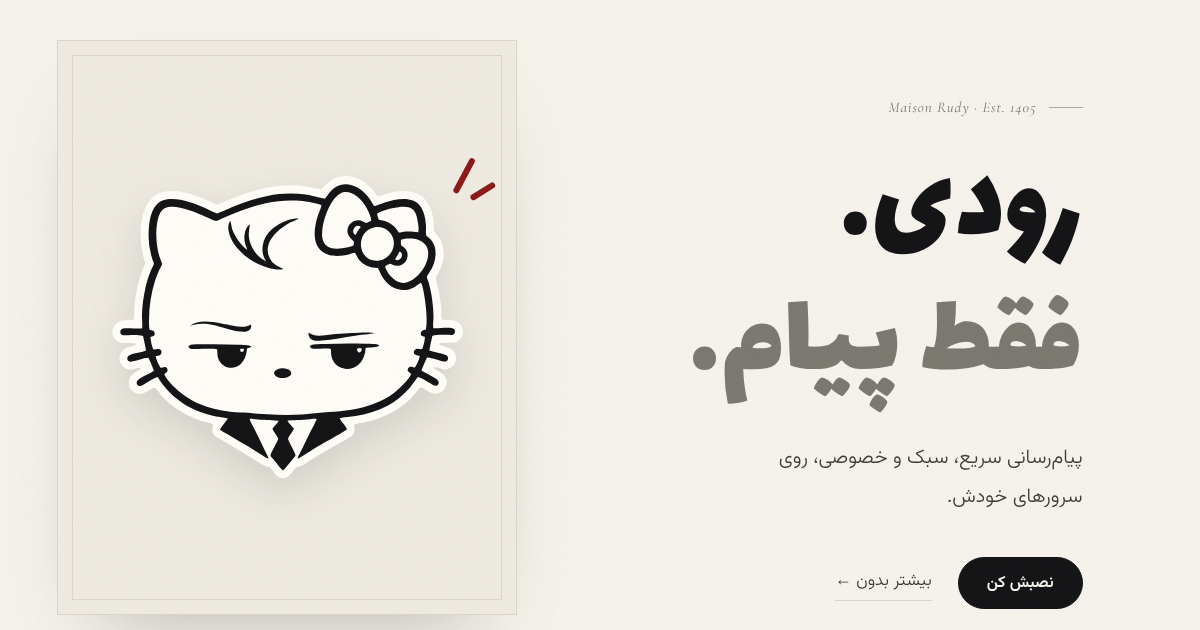
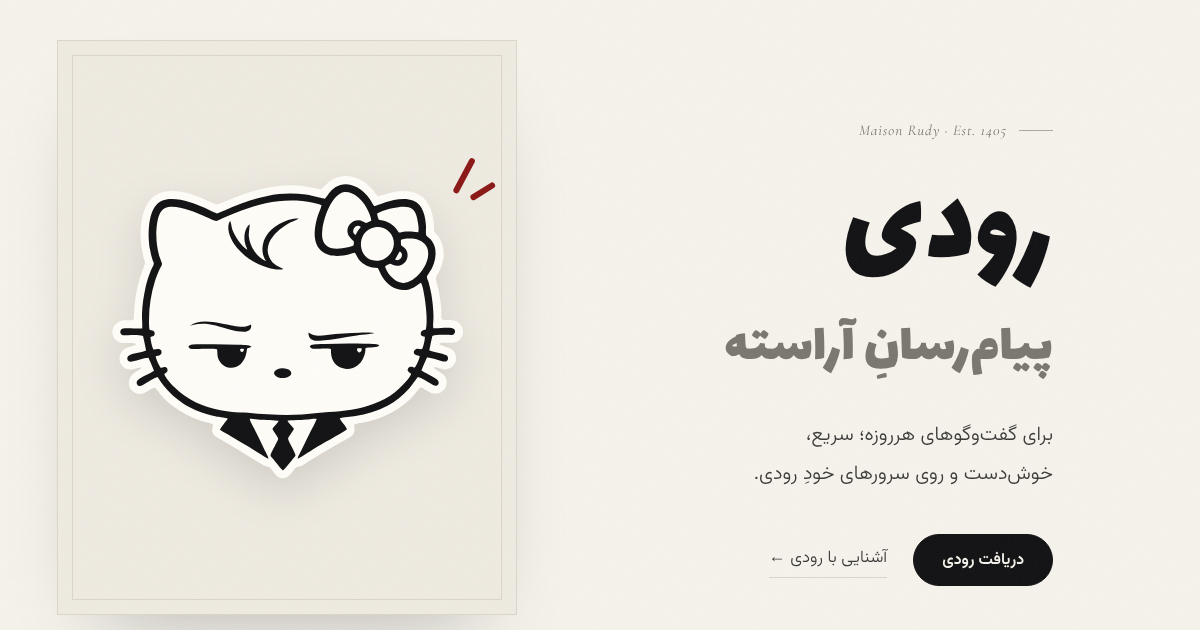
Rewrite the website copy and the about section

Changed region(s): [[0.555, 0.2714, 0.925, 0.8143], [0.6475, 0.8444, 0.925, 0.9651], [0.74, 0.1508, 0.8325, 0.181]]

diff --git a/index.html b/index.html
@@ -4,11 +4,11 @@
   <meta charset="utf-8">
   <meta name="viewport" content="width=device-width, initial-scale=1, viewport-fit=cover">
   <title>رودی · پیامرسان</title>
-  <meta name="description" content="رودی؛ پیامرسانی سریع، مرتب و خصوصی برای اندروید و دسکتاپ.">
+  <meta name="description" content="رودی؛ پیامرسانی سریع و خوشدست، روی سرورهای خودِ رودی.">
   <meta name="theme-color" content="#f6f3ec" media="(prefers-color-scheme: light)">
   <meta name="theme-color" content="#0f0f10" media="(prefers-color-scheme: dark)">
   <meta property="og:title" content="رودی · پیامرسان">
-  <meta property="og:description" content="پیامرسانی سریع، مرتب و خصوصی.">
+  <meta property="og:description" content="پیامرسانِ آراسته.">
   <meta property="og:image" content="img/og.png">
   <link rel="icon" href="img/favicon.svg" type="image/svg+xml">
   <link rel="preconnect" href="https://fonts.googleapis.com">
@@ -34,28 +34,28 @@
       <span>رودی</span>
     </a>
     <nav aria-label="بخشها">
-      <a href="#ayin">ویژگیها</a>
-      <a href="#molaghat">بپرس</a>
-      <a href="#server">سرورها</a>
-      <a href="#soal">سؤالها</a>
+      <a href="#about">معرفی</a>
+      <a href="#ask-rudy">بپرسید</a>
+      <a href="#server">زیرساخت</a>
+      <a href="#faq">پرسشها</a>
     </nav>
-    <a class="nav-cta" href="#nasb">دانلود</a>
+    <a class="nav-cta" href="#download">دریافت</a>
   </header>
 
   <main id="main">
 
-    <!-- I. Hero -->
+    <!-- Hero -->
     <section class="hero">
       <div class="hero-copy">
         <p class="eyebrow latin" dir="ltr">Maison Rudy · Est. 1405</p>
         <h1>
-          <span class="h1-line">رودی.</span>
-          <span class="h1-line h1-soft">فقط پیام.</span>
+          <span class="h1-line">رودی</span>
+          <span class="h1-line h1-soft">پیامرسانِ آراسته</span>
         </h1>
-        <p class="lede">پیامرسانی سریع، سبک و خصوصی، روی سرورهای خودش.</p>
+        <p class="lede">برای گفتوگوهای هرروزه؛ سریع، خوشدست و روی سرورهای خودِ رودی.</p>
         <div class="ctas">
-          <a class="btn" href="#nasb">نصبش کن</a>
-          <a class="link-arrow" href="#ayin">بیشتر بدون</a>
+          <a class="btn" href="#download">دریافت رودی</a>
+          <a class="link-arrow" href="#about">آشنایی با رودی</a>
         </div>
       </div>
 
@@ -68,64 +68,68 @@
           </div>
         </div>
         <figcaption>
-          <span>پرترهی رسمی</span>
-          <span class="latin" dir="ltr">Oil on silence, 1405</span>
+          <span>رودی</span>
+          <span class="latin" dir="ltr">Rudy, 1405</span>
         </figcaption>
       </figure>
     </section>
 
-    <!-- II. Rulebook -->
-    <section class="rules" id="ayin">
+    <!-- About -->
+    <section class="about" id="about">
       <header class="section-head">
-        <p class="eyebrow latin" dir="ltr">I. The Essentials</p>
-        <h2>چیزی که رودی هست</h2>
-        <p class="section-sub">چهار چیز، بدون حاشیه.</p>
+        <p class="eyebrow latin" dir="ltr">I. About</p>
+        <h2>رودی چیست؟</h2>
+        <p class="section-sub">پیامرسانی برای گفتوگو با دوستان، خانواده و همکاران؛ ساده، تمیز و بیحاشیه.</p>
       </header>
-      <ol class="rule-list">
-        <li>
-          <span class="num">۰۱</span>
-          <div><h3>رنگ خودت.</h3><p>روشن، تیره یا مشکی، با نه رنگ مختلف. لوگو هم با رنگی که انتخاب میکنی عوض میشه.</p></div>
-        </li>
-        <li>
-          <span class="num">۰۲</span>
-          <div><h3>سریع و سبک.</h3><p>روی گوشیهای قدیمی هم روون اجرا میشه و پیامها بیمعطلی میرسن.</p></div>
-        </li>
-        <li>
-          <span class="num">۰۳</span>
-          <div><h3>خلوت و مرتب.</h3><p>منوها کوتاه، صفحهها خلوت، دکمهها همونجایی که فکرشو میکنی.</p></div>
-        </li>
-        <li>
-          <span class="num">۰۴</span>
-          <div><h3>پیامت مال خودته.</h3><p>همهچیز روی سرورهای خود رودی میمونه، نه جای دیگه.</p></div>
-        </li>
-      </ol>
+      <div class="features">
+        <article class="feature">
+          <svg viewBox="0 0 24 24" aria-hidden="true"><path d="M13 2 4 14h7l-1 8 9-12h-7l1-8z"/></svg>
+          <h3>سبک و چابک</h3>
+          <p>روی گوشیهای قدیمی هم روان کار میکند و پیامها در لحظه میرسند.</p>
+        </article>
+        <article class="feature">
+          <svg viewBox="0 0 24 24" aria-hidden="true"><circle cx="12" cy="12" r="9"/><circle cx="8" cy="10" r="1.3"/><circle cx="12" cy="7.5" r="1.3"/><circle cx="16" cy="10" r="1.3"/><path d="M12 21a3 3 0 0 1 0-6h2.5a2.5 2.5 0 0 0 2.5-2.5"/></svg>
+          <h3>به سلیقهی شما</h3>
+          <p>پوستهی روشن، تیره یا مشکی، با نُه رنگ تأکیدی. پوستهی دلخواهتان را هم میتوانید خودتان بسازید.</p>
+        </article>
+        <article class="feature">
+          <svg viewBox="0 0 24 24" aria-hidden="true"><rect x="3" y="4" width="18" height="7" rx="1.5"/><rect x="3" y="13" width="18" height="7" rx="1.5"/><path d="M7 7.5h4M7 16.5h4"/><circle cx="17" cy="7.5" r=".8"/><circle cx="17" cy="16.5" r=".8"/></svg>
+          <h3>روی سرورهای رودی</h3>
+          <p>پیامها و پروندهها روی زیرساخت خودِ رودی نگهداری میشوند، نه روی سرویس دیگران.</p>
+        </article>
+        <article class="feature">
+          <svg viewBox="0 0 24 24" aria-hidden="true"><path d="M4 5h16v11H9l-5 4z"/><path d="M8 9.5h8M8 12.5h5"/></svg>
+          <h3>هرچه لازم دارید</h3>
+          <p>گفتوگوی دونفره، گروه و کانال، و ارسال عکس و پرونده؛ همه در یک برنامه.</p>
+        </article>
+      </div>
     </section>
 
-    <!-- III. An audience with Rudy -->
-    <section class="audience" id="molaghat">
+    <!-- Ask Rudy -->
+    <section class="audience" id="ask-rudy">
       <div class="audience-in">
         <header class="section-head">
           <p class="eyebrow latin" dir="ltr">II. Ask Rudy</p>
-          <h2>از رودی بپرس</h2>
-          <p class="section-sub">سه تا سؤال بپرس. رودی کوتاه جواب میده.</p>
+          <h2>از رودی بپرسید</h2>
+          <p class="section-sub">سؤالی دربارهی رودی دارید؟ همینجا بپرسید.</p>
         </header>
         <div class="desk">
           <div class="transcript" id="transcript" aria-live="polite">
-            <p class="line rudy"><span class="who">رودی</span><span class="said">بفرمایید. کوتاه لطفاً.</span></p>
+            <p class="line rudy"><span class="who">رودی</span><span class="said">سلام. بفرمایید، در خدمتم.</span></p>
           </div>
           <form class="ask" id="ask" autocomplete="off">
-            <label class="visually-hidden" for="q">سؤالت</label>
-            <input id="q" name="q" type="text" maxlength="90" placeholder="یه چیزی بپرس…" enterkeyhint="send">
-            <button type="submit" class="btn btn-small">بپرس</button>
+            <label class="visually-hidden" for="q">سؤال شما</label>
+            <input id="q" name="q" type="text" maxlength="90" placeholder="سؤالتان را بنویسید…" enterkeyhint="send">
+            <button type="submit" class="btn btn-small">ارسال</button>
           </form>
-          <p class="hint" id="hint">سؤالهای باقیمونده: <span id="left">۳</span></p>
+          <p class="hint" id="hint">سؤالهای باقیمانده: <span id="left">۳</span></p>
         </div>
       </div>
     </section>
 
-    <!-- IV. The servers -->
+    <!-- Infrastructure -->
     <section class="servers" id="server">
-      <div class="servers-art" id="servers" role="img" aria-label="رودی، مراقب سرورهاش">
+      <div class="servers-art" id="servers" role="img" aria-label="رودی کنار سرورهایش">
         <span class="server-ink"></span>
         <span class="led" style="--x:59.72%;--y:67.58%;--d:0s"></span>
         <span class="led" style="--x:67.6%;--y:67.58%;--d:.7s"></span>
@@ -133,45 +137,45 @@
         <span class="led" style="--x:67.59%;--y:83.54%;--d:.35s"></span>
       </div>
       <div class="servers-copy">
-        <p class="eyebrow latin" dir="ltr">III. The Servers</p>
-        <h2>سرورها،<br>شخصاً.</h2>
-        <p class="section-sub">رودی روی زیرساخت خودش اجرا میشه و به سرویس دیگهای وابسته نیست.</p>
+        <p class="eyebrow latin" dir="ltr">III. Infrastructure</p>
+        <h2>زیرساختِ خودِ رودی</h2>
+        <p class="section-sub">رودی به هیچ سرویس خارجی وابسته نیست. سرورها را خودمان راهاندازی و نگهداری میکنیم و دادههای شما همانجا میماند.</p>
         <dl class="status">
-          <div><dt>وضعیت</dt><dd><span class="dot"></span><span id="status-text">فعال</span></dd></div>
-          
+          <div><dt>وضعیت سرویس</dt><dd><span class="dot"></span><span>فعال</span></dd></div>
         </dl>
       </div>
     </section>
 
-    <!-- V. Install -->
-    <section class="install" id="nasb">
+    <!-- Download -->
+    <section class="install" id="download">
       <div class="install-in">
         <div class="seal" aria-hidden="true"><span class="seal-plane"></span></div>
-        <p class="eyebrow latin" dir="ltr">IV. Admission</p>
-        <h2>به جمع رودی خوش اومدی.</h2>
-        <p class="section-sub">نصب رایگانه و کمتر از یه دقیقه طول میکشه.</p>
+        <p class="eyebrow latin" dir="ltr">IV. Download</p>
+        <h2>رودی را نصب کنید</h2>
+        <p class="section-sub">رایگان است و ساختن حساب کمتر از یک دقیقه طول میکشد.</p>
         <div class="dl">
           <a class="btn btn-light" href="https://github.com/rudy-chat/rudy-android/releases/latest">
             <svg viewBox="0 0 24 24" aria-hidden="true"><path fill="currentColor" d="M17.6 9.48l1.84-3.18a.38.38 0 0 0-.66-.38l-1.86 3.22A11.4 11.4 0 0 0 12 8.2c-1.77 0-3.43.37-4.92.94L5.22 5.92a.38.38 0 1 0-.66.38L6.4 9.48A10.8 10.8 0 0 0 1 18h22a10.8 10.8 0 0 0-5.4-8.52zM7 15.25a1.25 1.25 0 1 1 0-2.5 1.25 1.25 0 0 1 0 2.5zm10 0a1.25 1.25 0 1 1 0-2.5 1.25 1.25 0 0 1 0 2.5z"/></svg>
-            اندروید
+            دریافت برای اندروید
           </a>
           <span class="btn btn-ghost-light is-soon" aria-disabled="true">ویندوز و لینوکس · بهزودی</span>
         </div>
-        <p class="fineprint">نسخهی آیفون در دست ساخته.</p>
+        <p class="fineprint">نسخهی iOS در دست ساخت است.</p>
       </div>
     </section>
 
-    <!-- VI. Questions -->
-    <section class="faq" id="soal">
+    <!-- FAQ -->
+    <section class="faq" id="faq">
       <header class="section-head">
-        <p class="eyebrow latin" dir="ltr">V. Questions</p>
-        <h2>سؤالها</h2>
+        <p class="eyebrow latin" dir="ltr">V. FAQ</p>
+        <h2>پرسشهای رایج</h2>
       </header>
       <div class="faq-list">
-        <details><summary>پولیه؟</summary><p>نه. رودی رایگانه.</p></details>
-        <details><summary>چطوری حساب بسازم؟</summary><p>با شمارهت. یه کد میاد، واردش میکنی، تمام. کمتر از یه دقیقه.</p></details>
-        <details><summary>میشه ظاهرشو عوض کرد؟</summary><p>بله. سه پوستهی روشن، تیره و مشکی، با نه رنگ مختلف. میتونی رنگ دلخواهتو هم خودت بسازی.</p></details>
-        <details><summary>روی کامپیوتر هم هست؟</summary><p>نسخهی ویندوز و لینوکس بهزودی منتشر میشه.</p></details>
+        <details><summary>استفاده از رودی رایگان است؟</summary><p>بله. نصب و استفاده از رودی رایگان است.</p></details>
+        <details><summary>چطور حساب بسازم؟</summary><p>برنامه را نصب کنید و شمارهی تلفنتان را وارد کنید. یک کد تأیید برایتان فرستاده میشود؛ با واردکردن آن، حسابتان آماده است.</p></details>
+        <details><summary>میتوانم ظاهر برنامه را تغییر دهم؟</summary><p>بله. از بخش تنظیمات یکی از پوستههای روشن، تیره یا مشکی و یکی از نُه رنگ را انتخاب کنید، یا پوستهی دلخواه خودتان را بسازید.</p></details>
+        <details><summary>نسخهی رایانه هم دارد؟</summary><p>نسخههای ویندوز و لینوکس بهزودی منتشر میشوند.</p></details>
+        <details><summary>پیامهایم کجا نگهداری میشوند؟</summary><p>روی سرورهای خودِ رودی. دادههای شما در اختیار هیچ سرویس دیگری قرار نمیگیرد.</p></details>
       </div>
     </section>
   </main>

diff --git a/js/main.js b/js/main.js
@@ -18,7 +18,7 @@
   }
 
   /* reveal on scroll */
-  const revealables = $$(".section-head, .rule-list li, .desk, .servers-art, .status, .install-in, .faq-list details");
+  const revealables = $$(".section-head, .feature, .desk, .servers-art, .status, .install-in, .faq-list details");
   if ("IntersectionObserver" in window && !reduced) {
     const io = new IntersectionObserver((entries) => {
       entries.forEach((e) => { if (e.isIntersecting) { e.target.classList.add("in"); io.unobserve(e.target); } });
@@ -56,17 +56,18 @@
   let remaining = 3;
 
   const answers = [
-    [/قیمت|پول|رایگان|مجانی|free|price/i, "رایگانه."],
-    [/امن|امنیت|رمز|حریم|secure|privacy/i, "پیامها روی سرورهای خود رودی میمونن."],
-    [/سرور|server/i, "رودی زیرساخت خودشو داره و به سرویس دیگهای وابسته نیست."],
-    [/ایفون|آیفون|iphone|ios/i, "نسخهی آیفون در دست ساخته."],
-    [/ویندوز|لینوکس|دسکتاپ|کامپیوتر|windows|linux|desktop/i, "نسخهی ویندوز و لینوکس بهزودی."],
-    [/اندروید|نصب|دانلود|android|install|download/i, "نسخهی اندروید رو از بخش نصب همین صفحه بگیر."],
-    [/رنگ|تم|پوسته|theme|color/i, "روشن، تیره یا مشکی، با نه رنگ. رنگ دلخواه هم میشه ساخت."],
-    [/حساب|ثبت|شماره|account|sign/i, "با شمارهت. یه کد میاد، واردش میکنی، تمام."],
+    [/قیمت|پول|رایگان|مجانی|هزینه|free|price/i, "رودی رایگان است."],
+    [/امن|امنیت|رمز|حریم|خصوصی|secure|privacy/i, "پیامهای شما روی سرورهای خودِ رودی میماند و در اختیار سرویس دیگری قرار نمیگیرد."],
+    [/سرور|زیرساخت|server/i, "رودی روی زیرساخت خودش اجرا میشود و به سرویس خارجی وابسته نیست."],
+    [/ایفون|آیفون|iphone|ios/i, "نسخهی iOS در دست ساخت است."],
+    [/ویندوز|لینوکس|دسکتاپ|کامپیوتر|رایانه|windows|linux|desktop/i, "نسخههای ویندوز و لینوکس بهزودی منتشر میشوند."],
+    [/اندروید|نصب|دانلود|دریافت|android|install|download/i, "نسخهی اندروید را از بخش «دریافت» همین صفحه بگیرید."],
+    [/رنگ|تم|پوسته|ظاهر|theme|color/i, "پوستهی روشن، تیره یا مشکی با نُه رنگ؛ پوستهی دلخواه هم میتوانید بسازید."],
+    [/حساب|ثبت|شماره|ورود|account|sign|login/i, "شمارهتان را وارد کنید و کد تأییدی را که میرسد بزنید. همین."],
+    [/گروه|کانال|group|channel/i, "بله، گفتوگوی گروهی و کانال هم دارد."],
     [/سلام|درود|hi|hello/i, "سلام. بفرمایید."],
   ];
-  const fallback = "جواب این یکی رو ندارم. بخش سؤالها پایین صفحه هم هست.";
+  const fallback = "پاسخ این سؤال را ندارم. شاید در «پرسشهای رایج» پایین صفحه پیدایش کنید.";
 
   function say(who, text, cls) {
     const p = document.createElement("p");
@@ -102,8 +103,8 @@
         input.disabled = btn.disabled = false;
         input.focus({ preventScroll: true });
       } else {
-        input.placeholder = "سؤالها تموم شد.";
-        $("#hint").textContent = "";
+        input.placeholder = "سه سؤالتان را پرسیدید.";
+        $("#hint").textContent = "برای سؤالهای بیشتر، بخش پرسشهای رایج را ببینید.";
       }
     }, 700 + Math.random() * 500);
   });

diff --git a/css/style.css b/css/style.css
@@ -128,7 +128,7 @@ h2 { font: 400 clamp(40px, 5.4vw, 72px)/1.25 var(--display); margin-top: 14px; t
 }
 .hero h1 { font: 400 clamp(64px, 10vw, 148px)/1.12 var(--display); margin-top: 22px; }
 .h1-line { display: block; }
-.h1-soft { color: var(--muted); }
+.h1-soft { color: var(--muted); font-size: .46em; line-height: 1.5; margin-top: .1em; }
 .lede { margin-top: 26px; font-size: 20px; color: var(--ink-2); max-width: 30ch; }
 .ctas { margin-top: 40px; display: flex; align-items: center; gap: 26px; flex-wrap: wrap; }
 
@@ -167,17 +167,19 @@ h2 { font: 400 clamp(40px, 5.4vw, 72px)/1.25 var(--display); margin-top: 14px; t
 .ticker-track b { color: var(--bow); font-weight: 400; }
 @keyframes tick { to { transform: translateX(50%); } }
 
-/* rules */
-.rules { padding-block: 120px; }
-.rule-list { list-style: none; border-top: 1px solid var(--ink); }
-.rule-list li {
-  display: grid; grid-template-columns: 120px minmax(0, 1fr); gap: 24px; align-items: baseline;
-  padding-block: 34px; border-bottom: 1px solid var(--hair);
+/* about */
+.about { padding-block: 120px; }
+.features { display: grid; grid-template-columns: repeat(2, minmax(0, 1fr)); border-top: 1px solid var(--ink); }
+.feature { padding: 44px 0 48px; padding-inline-end: 56px; border-bottom: 1px solid var(--hair); }
+.feature:nth-child(even) { padding-inline: 56px 0; border-inline-start: 1px solid var(--hair); }
+.feature svg { width: 30px; height: 30px; fill: none; stroke: var(--bow); stroke-width: 1.4; stroke-linecap: round; stroke-linejoin: round; }
+.feature h3 { margin-top: 22px; font-size: 23px; font-weight: 800; line-height: 1.6; }
+.feature p { margin-top: 8px; color: var(--ink-2); max-width: 40ch; }
+@media (max-width: 760px) {
+  .about { padding-block: 88px; }
+  .features { grid-template-columns: minmax(0, 1fr); }
+  .feature, .feature:nth-child(even) { padding: 34px 0; border-inline-start: 0; }
 }
-.num { font: 400 46px/1 var(--display); color: var(--bow); }
-.rule-list h3 { font-size: 24px; font-weight: 800; line-height: 1.6; }
-.rule-list p { color: var(--ink-2); max-width: 52ch; margin-top: 4px; }
-@media (max-width: 640px) { .rule-list li { grid-template-columns: 64px minmax(0, 1fr); gap: 14px; } .num { font-size: 34px; } }
 
 /* audience */
 .audience { background: var(--paper-2); padding-block: 120px; transition: background-color .6s; }
